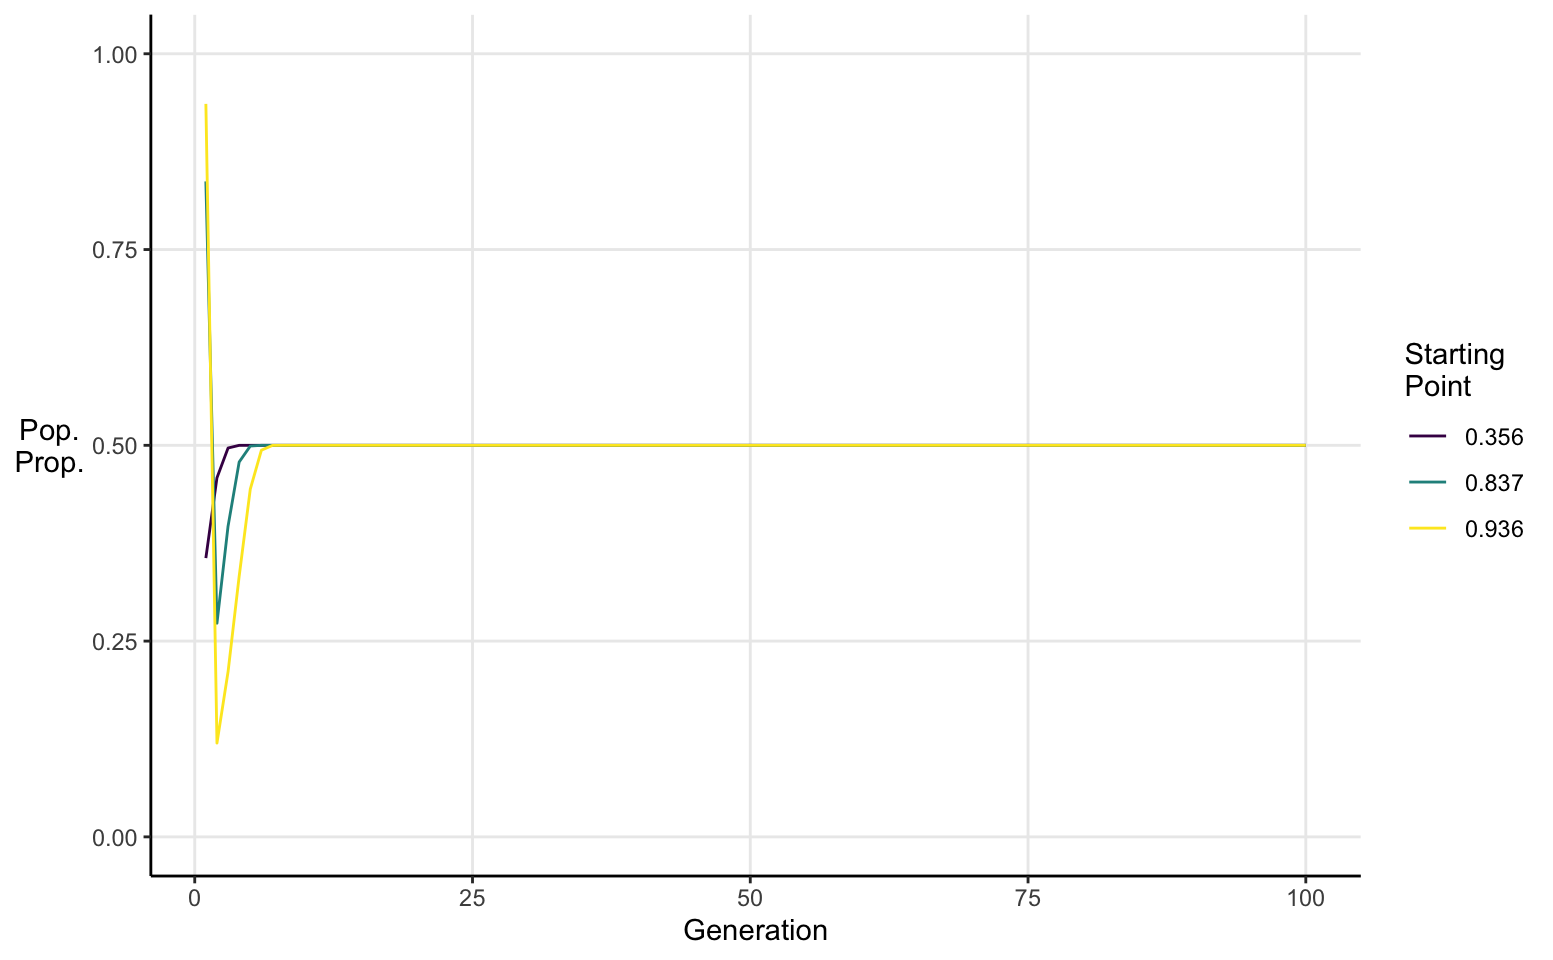
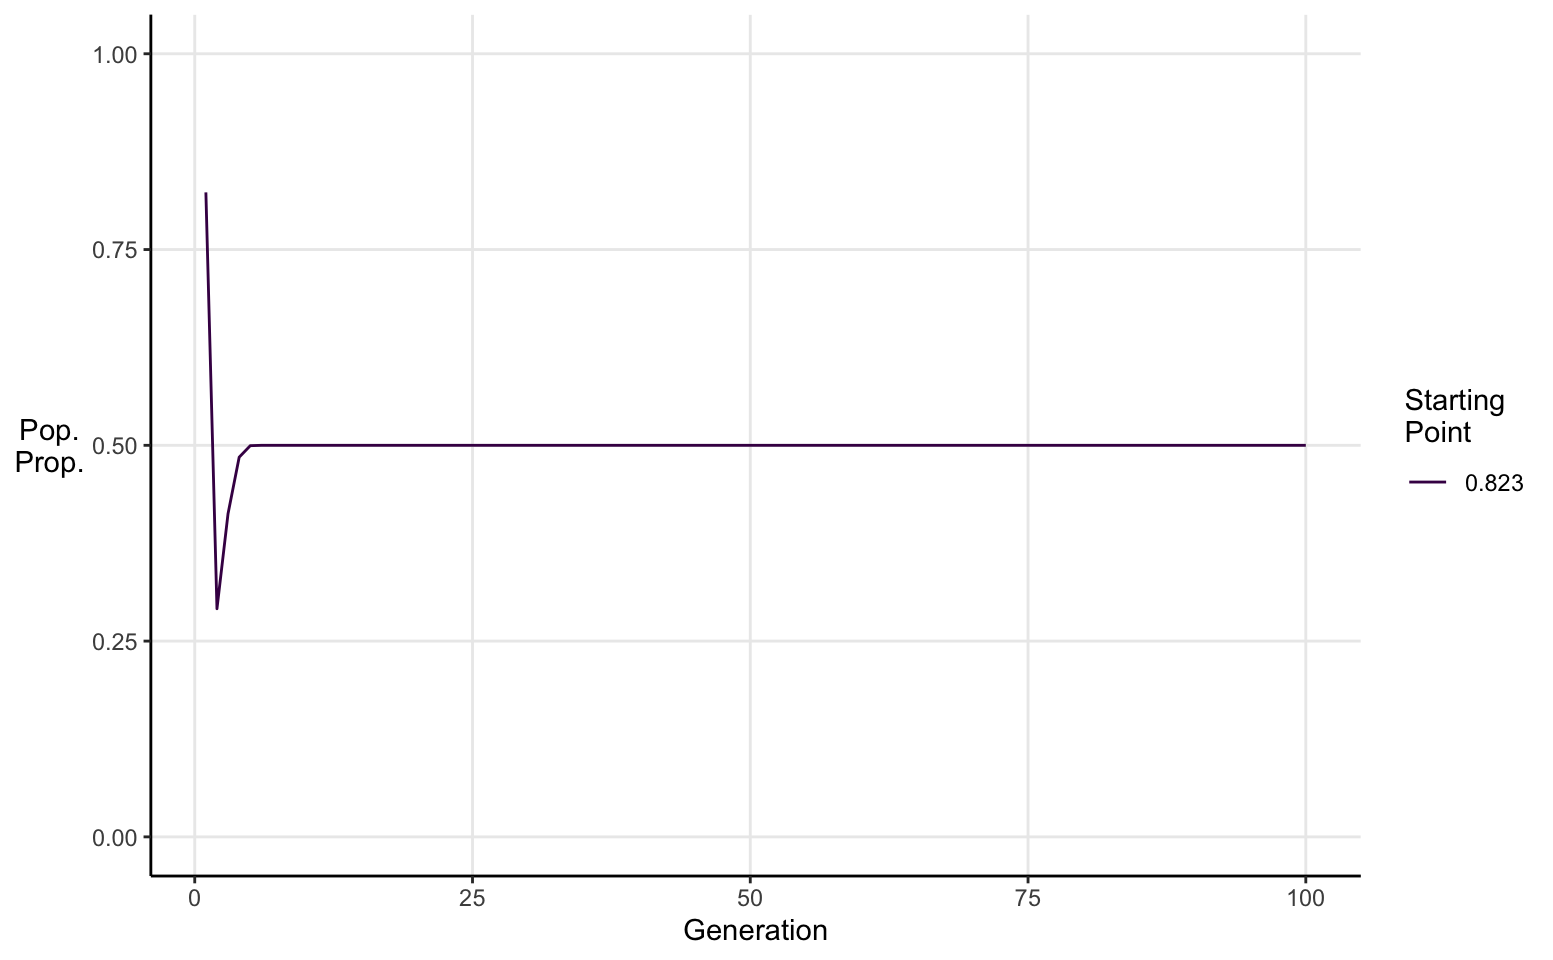
finally almost done

diff --git a/public/posts/chaos_logistic_map/index.html b/public/posts/chaos_logistic_map/index.html
@@ -110,7 +110,7 @@
             </span>
             <span class="reading-time">
               <i class="fas fa-clock"></i>
-              8 minutes read
+              9 minutes read
             </span>
           </div>
           
@@ -186,33 +186,38 @@ div#TOC li {
 <h1><span class="header-section-number">2</span> Visualising complexity</h1>
 <div id="stable-equilibrium" class="section level2">
 <h2><span class="header-section-number">2.1</span> Stable equilibrium</h2>
-<p>For some values of <span class="math inline">\(a\)</span> SAY WHICH VALUES the system described by the logistic map converges on a stable equilibrium.</p>
-<p>To see what this process looks like over time we can simulate populations in which <span class="math inline">\(a = 2\)</span> and see what happens.</p>
-<p>We’ll simulate 100 generations for 3 different populations each with a random starting population proportion.</p>
+<p>When <span class="math inline">\(1&lt;a\leq3\)</span> the system described by the logistic map converges on a stable equilibrium population proportion of <span class="math inline">\(\frac{a-1}{a}\)</span>.</p>
+<p>For example, if we simulate a population with a random starting point in which <span class="math inline">\(a = 2\)</span>.</p>
 <p><img src="/posts/chaos_logistic_map_files/figure-html/unnamed-chunk-4-1.png" width="776.64" style="display: block; margin: auto;" /></p>
-<p>We see that regardless of the starting point, if <span class="math inline">\(a=2\)</span>, then the population converges on a stable equilibrium proportion of <span class="math inline">\(0.5\)</span>.</p>
+<p>We see that then the population converges on a stable equilibrium proportion.</p>
+<p><span class="math display">\[\frac{a-1}{a} = \frac{2-1}{2} = 0.5\]</span></p>
 <p>To understand why this happens, let’s visualise the logistic map function itself when <span class="math inline">\(a=2\)</span>.</p>
 <p><img src="/posts/chaos_logistic_map_files/figure-html/unnamed-chunk-5-1.png" width="776.64" style="display: block; margin: auto;" /></p>
-<p>The graph neatly illustrates the idea of density dependence that I described verbally before.</p>
-<p>So now imagine starting anywhere on the x-axis, you’ll always end up at 0.5.</p>
-<p>Graph with arrows?</p>
+<p>The graph neatly illustrates the idea of density dependence that I described verbally before. If the population proportion at time <span class="math inline">\(t\)</span> is higher than 0.5, then it will be decrease in value. If the population proportion at time <span class="math inline">\(t\)</span> is lower than 0.5, then it will increase in value. Anywhere you start on the on the x-axis the subsequent values will constrict into the the equilibrium value of 0.5.</p>
 </div>
 <div id="period-doubling" class="section level2">
 <h2><span class="header-section-number">2.2</span> Period doubling</h2>
-<p>For other values of <span class="math inline">\(a\)</span>, the logistic map exhibits cycles.</p>
-<p>Do one for 2, 4, 8</p>
-<p>Stable cycle simulation, a = 3</p>
+<p>As you increase <span class="math inline">\(a\)</span> past 3, the logistic map begins to exhibit cyclical behaviour.</p>
+<p>For <span class="math inline">\(3&lt;a\leq \approx3.45\)</span> we see stable 2-period cycles.</p>
+<p>E.g. <span class="math inline">\(a = 3.1\)</span>:</p>
 <p><img src="/posts/chaos_logistic_map_files/figure-html/unnamed-chunk-6-1.png" width="776.64" style="display: block; margin: auto;" /></p>
+<p>For <span class="math inline">\(\approx3.45&lt;a\leq \approx3.54\)</span> we see stable 4-period cycles.</p>
+<p>E.g. <span class="math inline">\(a = 3.5\)</span>:</p>
+<p><img src="/posts/chaos_logistic_map_files/figure-html/unnamed-chunk-7-1.png" width="776.64" style="display: block; margin: auto;" /></p>
+<p>As you increase <span class="math inline">\(a\)</span> beyond 3.54 you see 8-period cycles, then 16, then 32 etc.</p>
+<p>E.g. Stable 8-peiod cycle simulation when <span class="math inline">\(a = 3.55\)</span>:</p>
+<p><img src="/posts/chaos_logistic_map_files/figure-html/unnamed-chunk-8-1.png" width="776.64" style="display: block; margin: auto;" /></p>
 </div>
 <div id="chaos" class="section level2">
 <h2><span class="header-section-number">2.3</span> Chaos</h2>
-<p>Now for the really interesting part. For some values of <span class="math inline">\(a\)</span>, the logistic map is <strong>chaotic</strong>. This means it shows no pattern at all. NEED PROPER DEFINITION HERE.</p>
-<p>Chaos simulation, a = 3.65</p>
-<p><img src="/posts/chaos_logistic_map_files/figure-html/unnamed-chunk-7-1.png" width="776.64" style="display: block; margin: auto;" /></p>
+<p>Now for the really interesting part. When <span class="math inline">\(a \approx 3.56995\)</span>, the logistic map is <strong>chaotic</strong>. This means it exhibits aperiodic behaviour that depends sensitively on initial conditions. In english, that means there are no repeating patterns and two populations which start at values very close to one another end up with very different dynamics.</p>
+<p>E.g. <span class="math inline">\(a = 3.65\)</span>:</p>
+<p><img src="/posts/chaos_logistic_map_files/figure-html/unnamed-chunk-9-1.png" width="776.64" style="display: block; margin: auto;" /></p>
+<p>Chaotic behaviour renders long-term prediction impossible.</p>
 </div>
 <div id="bifurcation-diagram" class="section level2">
 <h2><span class="header-section-number">2.4</span> Bifurcation diagram</h2>
-<p>May summarised all of the behaviour we’ve seen so far into a single graph called a bifurcation diagram.</p>
+<p>May summarised all of the behaviour we’ve seen so far into a single graph called a bifurcation diagram. It shows how the eventual population proportion changes with the value of <span class="math inline">\(a\)</span>.</p>
 <p>INSERT GRAPH.</p>
 <p>The graph is beautiful but, I think because it’s showing long run outcomes as a function of a tuning parameter rather than direct outcomes, I found it very counter-intuitive when I first saw it.</p>
 <p>Fortunately, there’s been more than 40 years’ worth of technological advancement since May’s paper. This means that even a no-name chump can build an interactive tool that hopefully makes May’s point a little easier to grasp.</p>
@@ -245,11 +250,14 @@ div#TOC li {
 </div>
 <div id="studying-non-elephant-animals" class="section level1">
 <h1><span class="header-section-number">4</span> Studying non-elephant animals</h1>
-<p>In the conclusion of his paper, May argues that non-linearity should be taught, and taught early. As he saw it, learning to extend linear mathemetics with Fourier transforms, orthogonal functions, and regression techniques, misleads scientists about the world they’re trying to understand. “The mathmetical intuition so developed ill equips the student to confront the bizarre behaviour exhibited by the simplest discrete nonlinear systems.”, he wrote. “Yet such nonlinear systems are surely the rule, not the exception, outside the physical sciences.”</p>
-<p>The crucial notion that nonlinear systems are the norm rather than the exception is summed up in my favourite quote from <em>Chaos</em> which comes from the mathematician Stanislaw Ulam. He quipped that “to call the study of chaos ‘nonlinear science’ was like calling zoology ‘the study of nonelephant animals’”. That is, it’s defining an entire subject in contrast to a niche class.</p>
+<p>In the conclusion of his paper, May argues that non-linearity should be taught, and taught early. As he saw it, learning to extend linear mathemetics with Fourier transforms, orthogonal functions, and regression techniques, misleads scientists about the world they’re trying to understand.</p>
+<blockquote>
+<p>“The mathmetical intuition so developed ill equips the student to confront the bizarre behaviour exhibited by the simplest discrete nonlinear systems… Yet such nonlinear systems are surely the rule, not the exception, outside the physical sciences.”</p>
+</blockquote>
+<p>The crucial notion that nonlinear systems are the norm rather than the exception is summed up in my favourite quote from <em>Chaos</em> which comes from the mathematician Stanislaw Ulam. He quipped that “to call the study of chaos ‘nonlinear science’ was like calling zoology ‘the study of nonelephant animals’”. That is, it’s defining a the majority of a subject in contrast to a niche class.</p>
 <p>The fact that vast swathes of science emphasise linearity has important implications. Something about people thinking in immediate causes from misunderstanding economics book. Poor at incorporating feedback loops or interative thinking. May’s final sentence from over 40 years ago still rings true:</p>
 <blockquote>
-<p>“Not only in research, but also in the everday world of politics and economics, we would all be better off if more people realized that simple nonlinear systems do not necessarily possess simple dynamical properties.”</p>
+<p>“Not only in research, but also in the everyday world of politics and economics, we would all be better off if more people realized that simple nonlinear systems do not necessarily possess simple dynamical properties.”</p>
 </blockquote>
 <p>Most things, especially the important things, are greater than the sum of their parts, and the hierarchical reductionism of much of science isn’t going to help us understand them even close to well enough.</p>
 </div>

diff --git a/content/posts/chaos_logistic_map.html b/content/posts/chaos_logistic_map.html
@@ -74,33 +74,38 @@ div#TOC li {
 <h1><span class="header-section-number">2</span> Visualising complexity</h1>
 <div id="stable-equilibrium" class="section level2">
 <h2><span class="header-section-number">2.1</span> Stable equilibrium</h2>
-<p>For some values of <span class="math inline">\(a\)</span> SAY WHICH VALUES the system described by the logistic map converges on a stable equilibrium.</p>
-<p>To see what this process looks like over time we can simulate populations in which <span class="math inline">\(a = 2\)</span> and see what happens.</p>
-<p>We’ll simulate 100 generations for 3 different populations each with a random starting population proportion.</p>
+<p>When <span class="math inline">\(1&lt;a\leq3\)</span> the system described by the logistic map converges on a stable equilibrium population proportion of <span class="math inline">\(\frac{a-1}{a}\)</span>.</p>
+<p>For example, if we simulate a population with a random starting point in which <span class="math inline">\(a = 2\)</span>.</p>
 <p><img src="/posts/chaos_logistic_map_files/figure-html/unnamed-chunk-4-1.png" width="776.64" style="display: block; margin: auto;" /></p>
-<p>We see that regardless of the starting point, if <span class="math inline">\(a=2\)</span>, then the population converges on a stable equilibrium proportion of <span class="math inline">\(0.5\)</span>.</p>
+<p>We see that then the population converges on a stable equilibrium proportion.</p>
+<p><span class="math display">\[\frac{a-1}{a} = \frac{2-1}{2} = 0.5\]</span></p>
 <p>To understand why this happens, let’s visualise the logistic map function itself when <span class="math inline">\(a=2\)</span>.</p>
 <p><img src="/posts/chaos_logistic_map_files/figure-html/unnamed-chunk-5-1.png" width="776.64" style="display: block; margin: auto;" /></p>
-<p>The graph neatly illustrates the idea of density dependence that I described verbally before.</p>
-<p>So now imagine starting anywhere on the x-axis, you’ll always end up at 0.5.</p>
-<p>Graph with arrows?</p>
+<p>The graph neatly illustrates the idea of density dependence that I described verbally before. If the population proportion at time <span class="math inline">\(t\)</span> is higher than 0.5, then it will be decrease in value. If the population proportion at time <span class="math inline">\(t\)</span> is lower than 0.5, then it will increase in value. Anywhere you start on the on the x-axis the subsequent values will constrict into the the equilibrium value of 0.5.</p>
 </div>
 <div id="period-doubling" class="section level2">
 <h2><span class="header-section-number">2.2</span> Period doubling</h2>
-<p>For other values of <span class="math inline">\(a\)</span>, the logistic map exhibits cycles.</p>
-<p>Do one for 2, 4, 8</p>
-<p>Stable cycle simulation, a = 3</p>
+<p>As you increase <span class="math inline">\(a\)</span> past 3, the logistic map begins to exhibit cyclical behaviour.</p>
+<p>For <span class="math inline">\(3&lt;a\leq \approx3.45\)</span> we see stable 2-period cycles.</p>
+<p>E.g. <span class="math inline">\(a = 3.1\)</span>:</p>
 <p><img src="/posts/chaos_logistic_map_files/figure-html/unnamed-chunk-6-1.png" width="776.64" style="display: block; margin: auto;" /></p>
+<p>For <span class="math inline">\(\approx3.45&lt;a\leq \approx3.54\)</span> we see stable 4-period cycles.</p>
+<p>E.g. <span class="math inline">\(a = 3.5\)</span>:</p>
+<p><img src="/posts/chaos_logistic_map_files/figure-html/unnamed-chunk-7-1.png" width="776.64" style="display: block; margin: auto;" /></p>
+<p>As you increase <span class="math inline">\(a\)</span> beyond 3.54 you see 8-period cycles, then 16, then 32 etc.</p>
+<p>E.g. Stable 8-peiod cycle simulation when <span class="math inline">\(a = 3.55\)</span>:</p>
+<p><img src="/posts/chaos_logistic_map_files/figure-html/unnamed-chunk-8-1.png" width="776.64" style="display: block; margin: auto;" /></p>
 </div>
 <div id="chaos" class="section level2">
 <h2><span class="header-section-number">2.3</span> Chaos</h2>
-<p>Now for the really interesting part. For some values of <span class="math inline">\(a\)</span>, the logistic map is <strong>chaotic</strong>. This means it shows no pattern at all. NEED PROPER DEFINITION HERE.</p>
-<p>Chaos simulation, a = 3.65</p>
-<p><img src="/posts/chaos_logistic_map_files/figure-html/unnamed-chunk-7-1.png" width="776.64" style="display: block; margin: auto;" /></p>
+<p>Now for the really interesting part. When <span class="math inline">\(a \approx 3.56995\)</span>, the logistic map is <strong>chaotic</strong>. This means it exhibits aperiodic behaviour that depends sensitively on initial conditions. In english, that means there are no repeating patterns and two populations which start at values very close to one another end up with very different dynamics.</p>
+<p>E.g. <span class="math inline">\(a = 3.65\)</span>:</p>
+<p><img src="/posts/chaos_logistic_map_files/figure-html/unnamed-chunk-9-1.png" width="776.64" style="display: block; margin: auto;" /></p>
+<p>Chaotic behaviour renders long-term prediction impossible.</p>
 </div>
 <div id="bifurcation-diagram" class="section level2">
 <h2><span class="header-section-number">2.4</span> Bifurcation diagram</h2>
-<p>May summarised all of the behaviour we’ve seen so far into a single graph called a bifurcation diagram.</p>
+<p>May summarised all of the behaviour we’ve seen so far into a single graph called a bifurcation diagram. It shows how the eventual population proportion changes with the value of <span class="math inline">\(a\)</span>.</p>
 <p>INSERT GRAPH.</p>
 <p>The graph is beautiful but, I think because it’s showing long run outcomes as a function of a tuning parameter rather than direct outcomes, I found it very counter-intuitive when I first saw it.</p>
 <p>Fortunately, there’s been more than 40 years’ worth of technological advancement since May’s paper. This means that even a no-name chump can build an interactive tool that hopefully makes May’s point a little easier to grasp.</p>
@@ -133,11 +138,14 @@ div#TOC li {
 </div>
 <div id="studying-non-elephant-animals" class="section level1">
 <h1><span class="header-section-number">4</span> Studying non-elephant animals</h1>
-<p>In the conclusion of his paper, May argues that non-linearity should be taught, and taught early. As he saw it, learning to extend linear mathemetics with Fourier transforms, orthogonal functions, and regression techniques, misleads scientists about the world they’re trying to understand. “The mathmetical intuition so developed ill equips the student to confront the bizarre behaviour exhibited by the simplest discrete nonlinear systems.”, he wrote. “Yet such nonlinear systems are surely the rule, not the exception, outside the physical sciences.”</p>
-<p>The crucial notion that nonlinear systems are the norm rather than the exception is summed up in my favourite quote from <em>Chaos</em> which comes from the mathematician Stanislaw Ulam. He quipped that “to call the study of chaos ‘nonlinear science’ was like calling zoology ‘the study of nonelephant animals’”. That is, it’s defining an entire subject in contrast to a niche class.</p>
+<p>In the conclusion of his paper, May argues that non-linearity should be taught, and taught early. As he saw it, learning to extend linear mathemetics with Fourier transforms, orthogonal functions, and regression techniques, misleads scientists about the world they’re trying to understand.</p>
+<blockquote>
+<p>“The mathmetical intuition so developed ill equips the student to confront the bizarre behaviour exhibited by the simplest discrete nonlinear systems… Yet such nonlinear systems are surely the rule, not the exception, outside the physical sciences.”</p>
+</blockquote>
+<p>The crucial notion that nonlinear systems are the norm rather than the exception is summed up in my favourite quote from <em>Chaos</em> which comes from the mathematician Stanislaw Ulam. He quipped that “to call the study of chaos ‘nonlinear science’ was like calling zoology ‘the study of nonelephant animals’”. That is, it’s defining a the majority of a subject in contrast to a niche class.</p>
 <p>The fact that vast swathes of science emphasise linearity has important implications. Something about people thinking in immediate causes from misunderstanding economics book. Poor at incorporating feedback loops or interative thinking. May’s final sentence from over 40 years ago still rings true:</p>
 <blockquote>
-<p>“Not only in research, but also in the everday world of politics and economics, we would all be better off if more people realized that simple nonlinear systems do not necessarily possess simple dynamical properties.”</p>
+<p>“Not only in research, but also in the everyday world of politics and economics, we would all be better off if more people realized that simple nonlinear systems do not necessarily possess simple dynamical properties.”</p>
 </blockquote>
 <p>Most things, especially the important things, are greater than the sum of their parts, and the hierarchical reductionism of much of science isn’t going to help us understand them even close to well enough.</p>
 </div>

diff --git a/public/tags/book-summary/index.html b/public/tags/book-summary/index.html
@@ -10,10 +10,10 @@
     <meta name="keywords" content="blog,data science,personal">
 
     <meta name="twitter:card" content="summary"/>
-<meta name="twitter:title" content="Book Summary"/>
+<meta name="twitter:title" content="Book summary"/>
 <meta name="twitter:description" content="Mitchel Fruin&#39;s personal website"/>
 
-    <meta property="og:title" content="Book Summary" />
+    <meta property="og:title" content="Book summary" />
 <meta property="og:description" content="Mitchel Fruin&#39;s personal website" />
 <meta property="og:type" content="website" />
 <meta property="og:url" content="/tags/book-summary/" />
@@ -24,7 +24,7 @@
     
       <base href="/tags/book-summary/">
     
-    <title>Tag: Book Summary · MitchThinks</title>
+    <title>Tag: Book summary · MitchThinks</title>
 
     
       <link rel="canonical" href="/tags/book-summary/">
@@ -94,7 +94,7 @@
       <div class="content">
         
   <section class="container list">
-  <h1 class="title">Tag: Book Summary</h1>
+  <h1 class="title">Tag: Book summary</h1>
   <ul>
     
     <li>

diff --git a/public/tags/index.html b/public/tags/index.html
@@ -99,7 +99,7 @@
     
     <li>
       <span class="date">Jan 28, 2020</span>
-      <a class="title" href="/tags/book-summary/">Book Summary</a>
+      <a class="title" href="/tags/book-summary/">Book summary</a>
     </li>
     
     <li>
